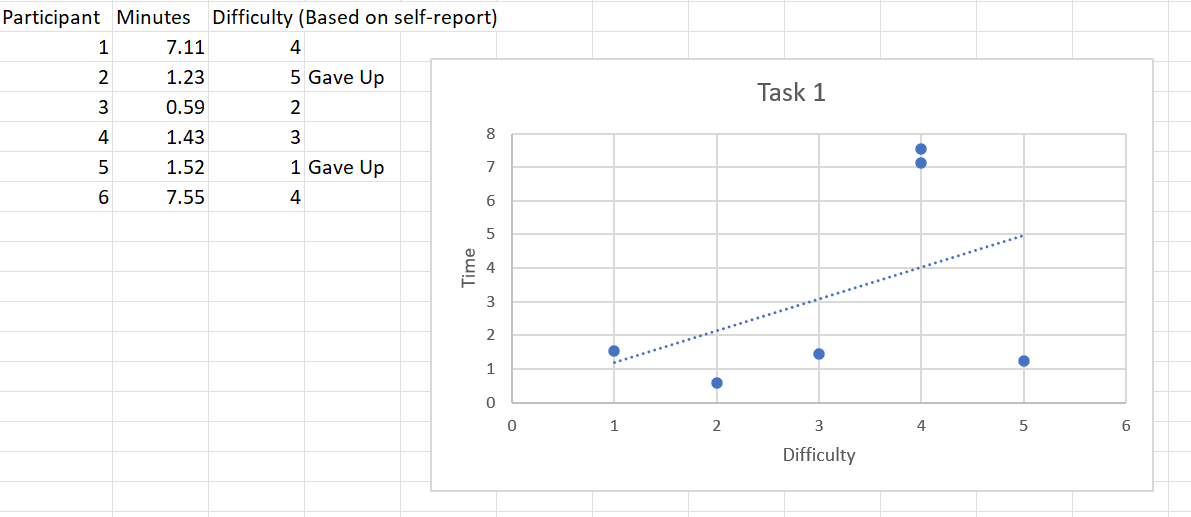
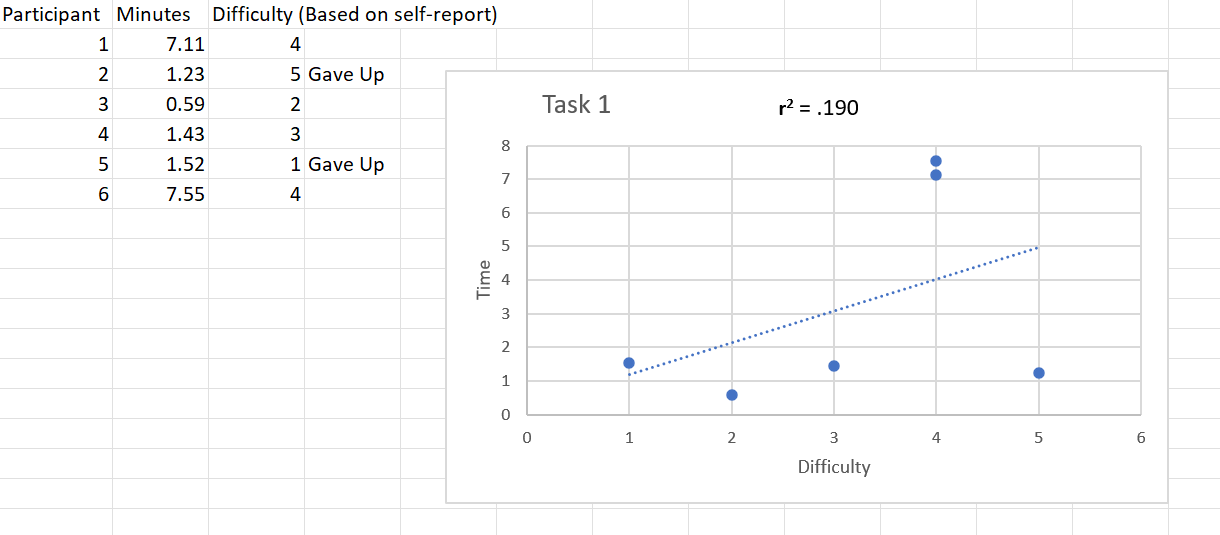
Adding R2

diff --git a/data.html b/data.html
@@ -70,7 +70,7 @@
       <div class="b2">
         <div>
           <h2>Task 2</h2>
-          <p>Task 2 creating a to-do task on calendar shows that all participants were able to accomplish the task with speed and reported as not difficult except participant 1.
+          <p>In task 2 creating a to-do task on calendar shows that all participants were able to accomplish the task with speed and reported as not difficult except participant 1.
             </p>
         </div>
         <div>
